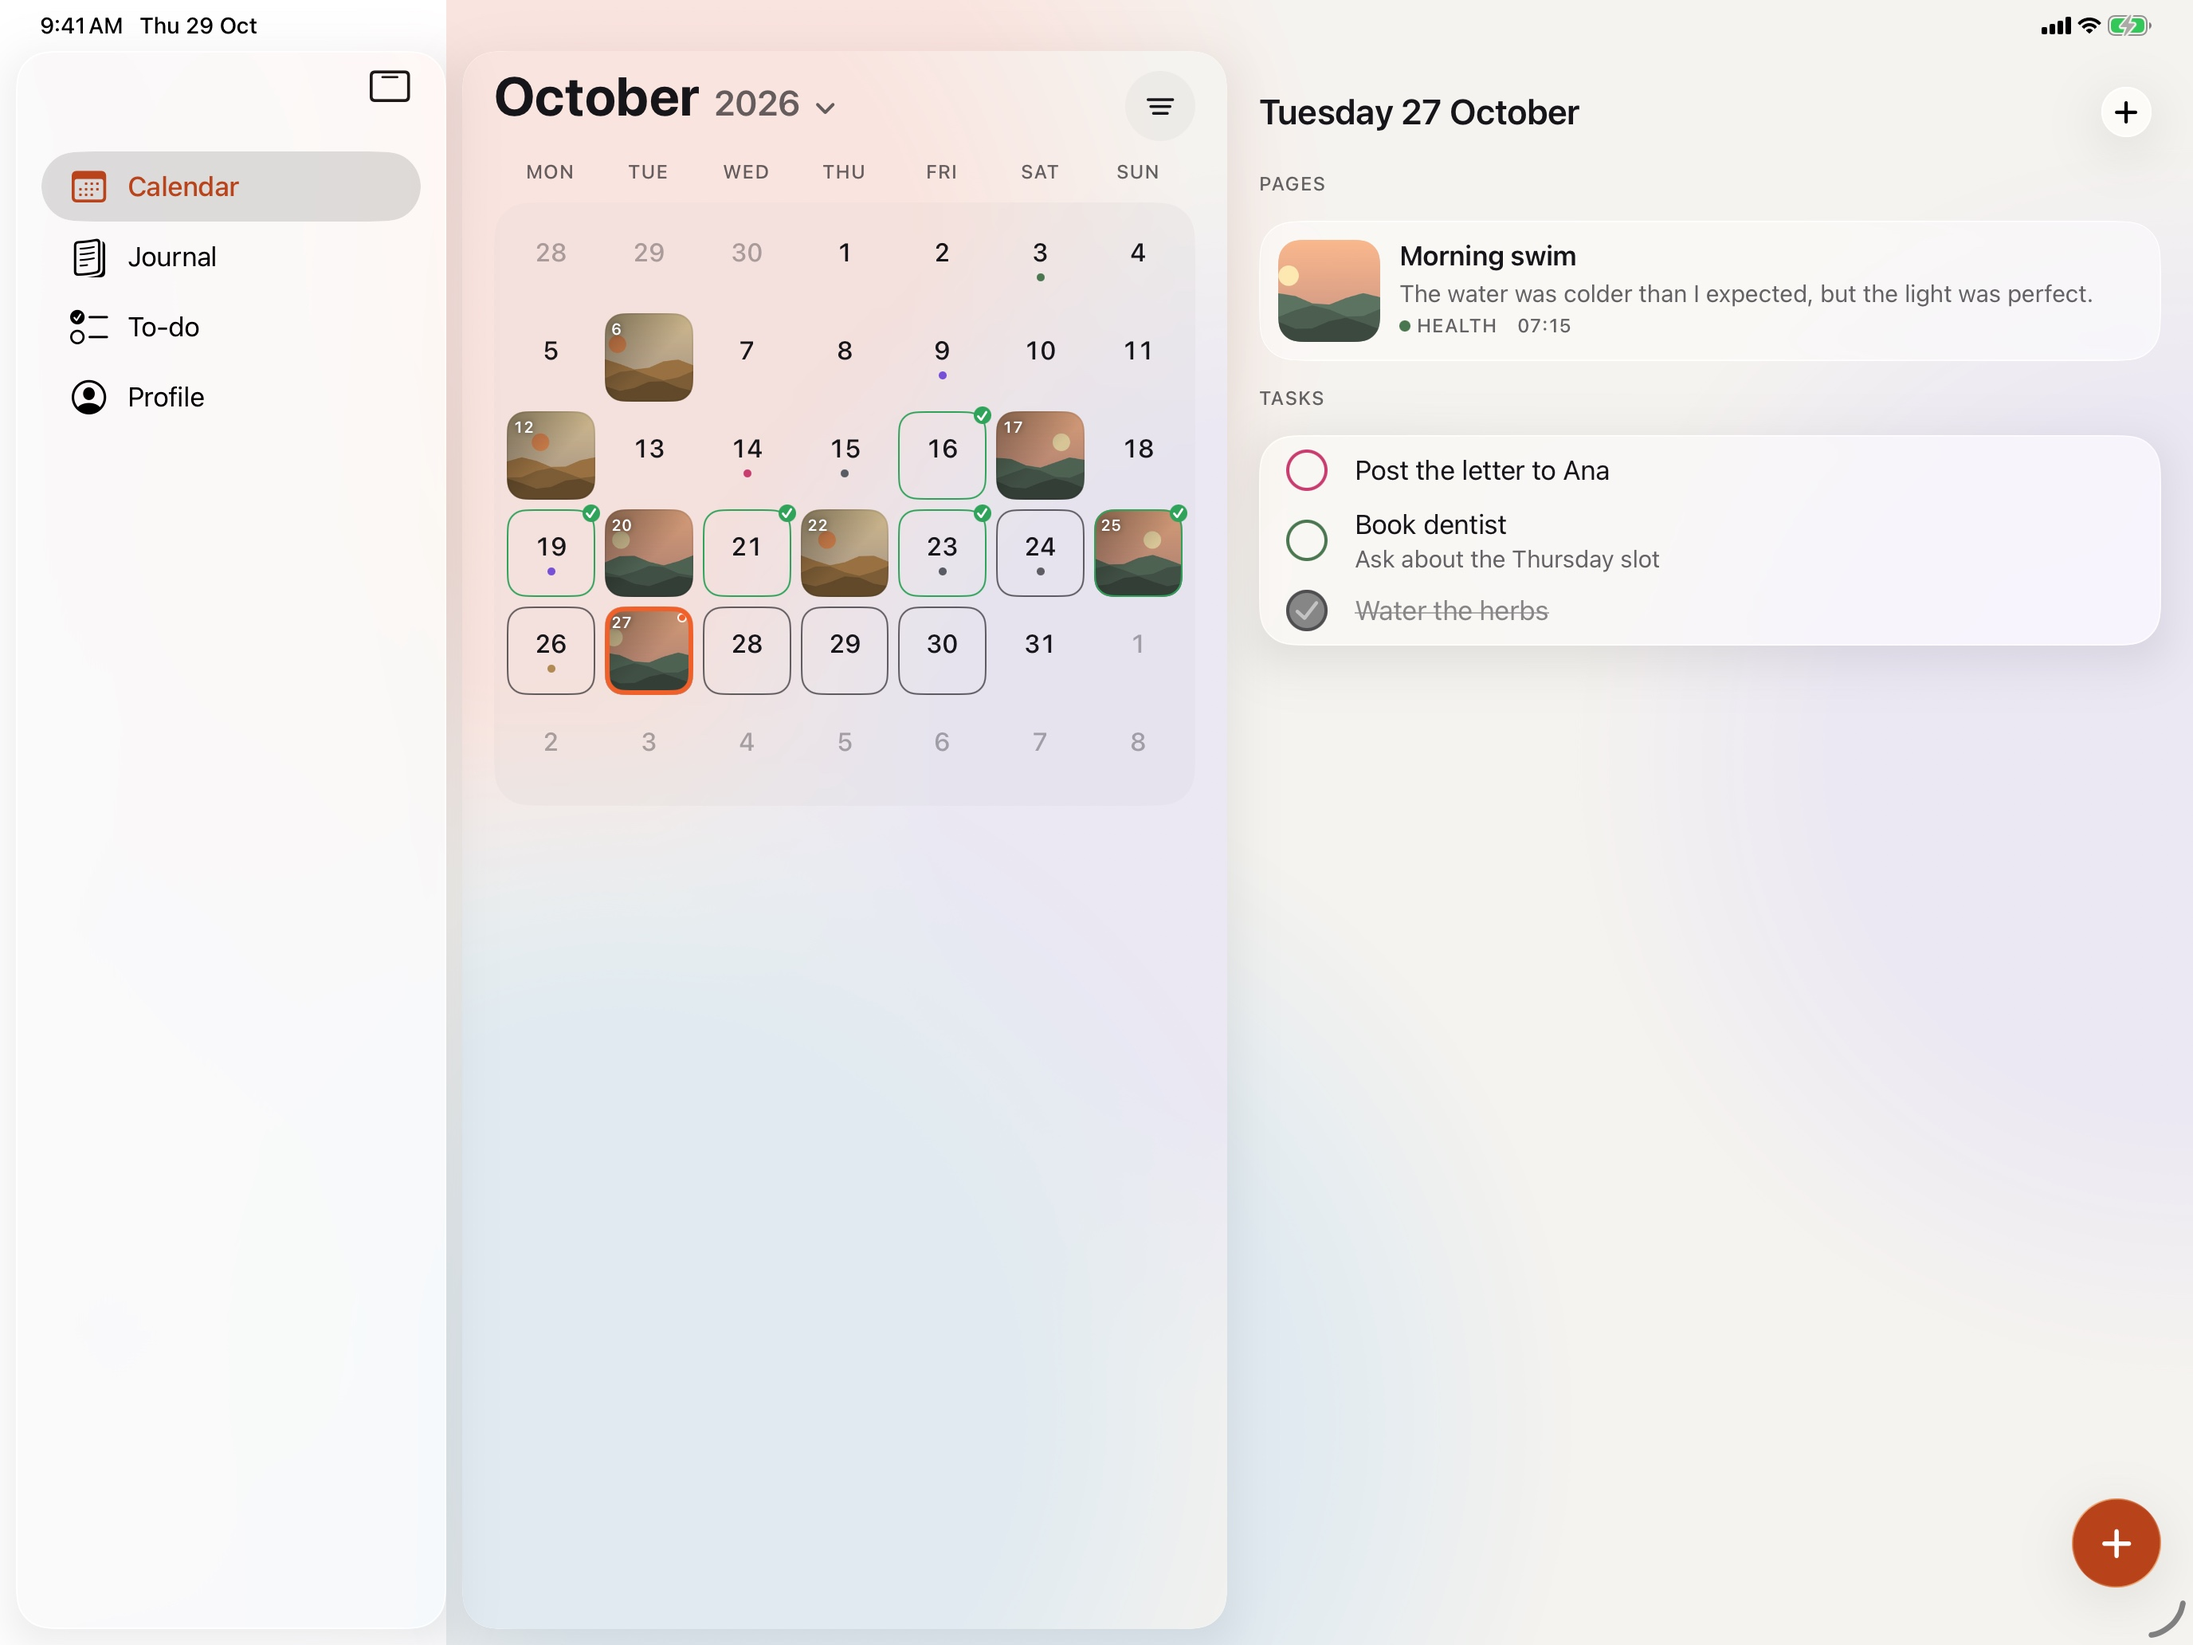
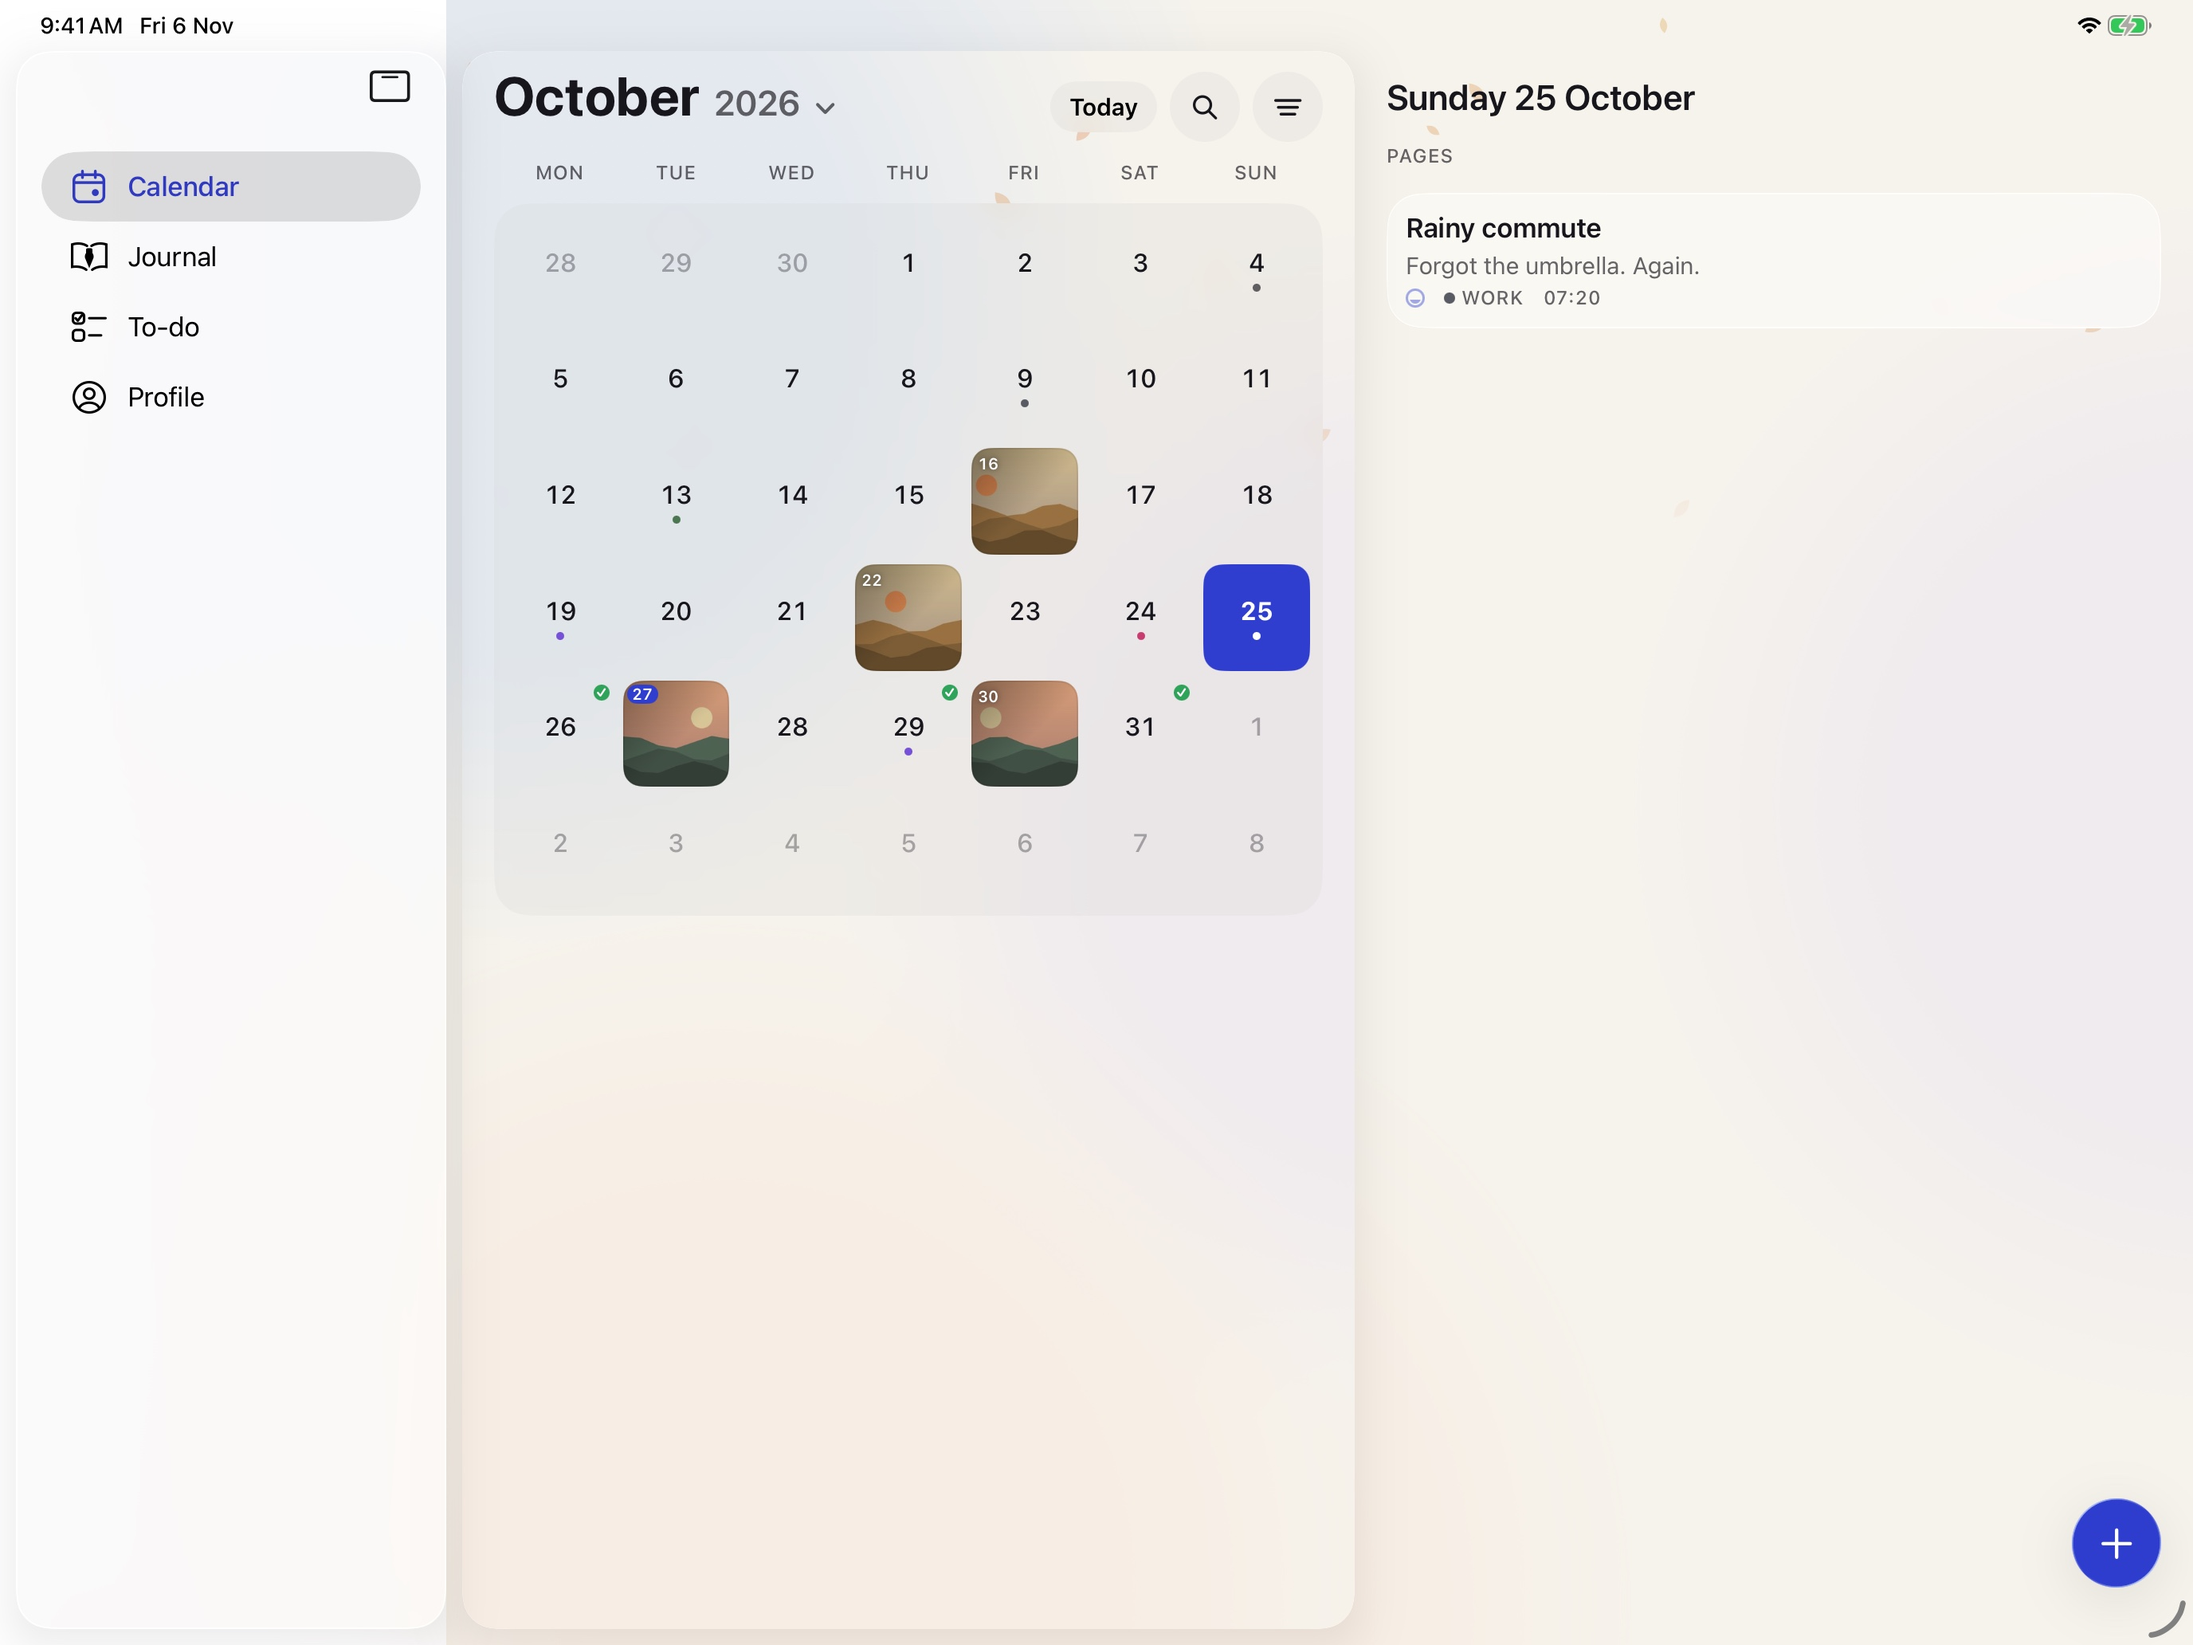
Batch L Part 4: iPad — readable centred columns (Journal, To-do, Profile, Year in Pixels), wider month column, keyboard shortcuts via Commands (focused window), pointer hover on every pressable control, Cmd-Return saves; year pager fix; iPad screenshots (13/11, portrait/landscape, light/dark), App S

diff --git a/ios/Folio/App/FolioCommands.swift b/ios/Folio/App/FolioCommands.swift
@@ -1,0 +1,43 @@
+import SwiftUI
+
+/// Hardware-keyboard shortcuts (Batch L, iPad and keyboards on iPhone): they appear in the
+/// iPadOS menu bar and the ⌘ overlay, and act on the focused window only (`focusedSceneValue`),
+/// so with two Folio windows open ⌘N opens one composer, in the window you're using.
+enum FolioCommand: Hashable {
+    case newEntry, newTask, search, today, previousMonth, nextMonth
+    case tab(AppTab)
+}
+
+/// What the focused window does with a command.
+struct FolioCommandHandler {
+    let perform: (FolioCommand) -> Void
+}
+
+extension FocusedValues {
+    @Entry var folioCommands: FolioCommandHandler?
+}
+
+struct FolioCommands: Commands {
+    @FocusedValue(\.folioCommands) private var handler
+
+    var body: some Commands {
+        CommandGroup(replacing: .newItem) {
+            Button("New Entry") { handler?.perform(.newEntry) }
+                .keyboardShortcut("n")
+            Button("New Task") { handler?.perform(.newTask) }
+                .keyboardShortcut("n", modifiers: [.command, .shift])
+        }
+        CommandMenu("Go") {
+            Button("Calendar") { handler?.perform(.tab(.calendar)) }.keyboardShortcut("1")
+            Button("Journal") { handler?.perform(.tab(.journal)) }.keyboardShortcut("2")
+            Button("To-do") { handler?.perform(.tab(.todo)) }.keyboardShortcut("3")
+            Button("Profile") { handler?.perform(.tab(.profile)) }.keyboardShortcut("4")
+            Divider()
+            Button("Today") { handler?.perform(.today) }.keyboardShortcut("t")
+            Button("Previous Month") { handler?.perform(.previousMonth) }.keyboardShortcut("[")
+            Button("Next Month") { handler?.perform(.nextMonth) }.keyboardShortcut("]")
+            Divider()
+            Button("Search") { handler?.perform(.search) }.keyboardShortcut("f")
+        }
+    }
+}

diff --git a/ios/Folio/Features/Journal/YearInPixelsView.swift b/ios/Folio/Features/Journal/YearInPixelsView.swift
@@ -6,6 +6,7 @@ struct YearInPixelsView: View {
     @Bindable var model: JournalModel
     @Environment(DiaryStore.self) private var store
     @Environment(\.accessibilityReduceMotion) private var reduceMotion
+    @State private var pagerWidth: Double = 0
     @State private var visibleYear: Int?
 
     var body: some View {
@@ -42,7 +43,15 @@ struct YearInPixelsView: View {
             }
             .scrollTargetBehavior(.paging)
             .scrollIndicators(.hidden)
+            // The Journal's readable-width margins (Batch L) are for its own column; inherited
+            // here they'd offset each page and show a slice of the neighbouring year.
+            .contentMargins(.horizontal, 0, for: .scrollContent)
             .scrollPosition(id: $visibleYear)
+            // A paging scroll view keeps its pixel offset when its width changes (HANDOFF gotcha
+            // 19): rebuild it per width so it lands on the year it shows, and nothing peeks in.
+            .onGeometryChange(for: Double.self) { $0.size.width } action: { pagerWidth = $0 }
+            .id(pagerWidth)
+            .clipped()
             .onAppear { if visibleYear == nil { visibleYear = current } }
 
             PixelLegend(byMood: model.pixelsByMood)
@@ -165,5 +174,6 @@ struct PixelLegend: View {
             }
         }
         .scrollIndicators(.hidden)
+        .contentMargins(.horizontal, 0, for: .scrollContent)
     }
 }

diff --git a/ios/Folio/Features/Shell/MainTabView.swift b/ios/Folio/Features/Shell/MainTabView.swift
@@ -84,6 +84,7 @@ struct MainTabView: View {
                 if added > 0 { toasts.show(ToastMessage(text: "Added \(added) shared to Folio", systemImage: "square.and.arrow.down")) }
             }
         }
+        .focusedSceneValue(\.folioCommands, FolioCommandHandler(perform: perform))
         .onOpenURL { url in
             guard let route = FolioRoute(url: url) else { return }
             if calendar == nil { pendingRoute = route } else { open(route) }
@@ -178,6 +179,22 @@ struct MainTabView: View {
             calendar?.path = []
             selection = .calendar
             calendar?.showsSearch = true
+        }
+    }
+
+    /// Keyboard shortcuts (Batch L): the same paths as the "+" button, tabs and the calendar header.
+    private func perform(_ command: FolioCommand) {
+        switch command {
+        case .newEntry: present(.entry(selection == .calendar ? calendar?.selectedDay ?? store.today : store.today))
+        case .newTask: open(.newTask)
+        case .search: open(.search)
+        case .today: open(.today)
+        case .previousMonth, .nextMonth:
+            selection = .calendar
+            calendar?.page(by: command == .nextMonth ? 1 : -1, reduceMotion: UIAccessibility.isReduceMotionEnabled)
+        case .tab(let tab):
+            requester.pending = nil
+            selection = tab
         }
     }
 

diff --git a/ios/Folio/Features/Todo/TodoScreen.swift b/ios/Folio/Features/Todo/TodoScreen.swift
@@ -83,6 +83,7 @@ struct TodoScreen: View {
             // The inset holds the toast and the quick-add bar, so the last row always scrolls
             // clear of both and of the tab bar; the margin adds a little air under it.
             .contentMargins(.bottom, Spacing.m, for: .scrollContent)
+            .readableWidth()
             // Scrolling or tapping the list puts the keyboard away (Batch I). Attached before the
             // bottom inset, so taps on the quick-add bar itself are never caught.
             .scrollDismissesKeyboard(.immediately)
@@ -152,6 +153,9 @@ struct TodoScreen: View {
             }
             .onGeometryChange(for: Double.self) { $0.size.height - barPadding } action: { quickAddHeight = $0 }
         }
+        // Wide windows (Batch L): the bar lines up with the list's readable column.
+        .frame(maxWidth: 800)
+        .frame(maxWidth: .infinity)
         // A negative bottom padding shrinks the inset too, so the list's last row follows the bar down.
         .padding(.bottom, -(inline?.drop ?? 0))
         .animation(FolioMotion.standard(reduceMotion: reduceMotion), value: inline)

diff --git a/ios/Folio/DesignSystem/Components/ReadableWidth.swift b/ios/Folio/DesignSystem/Components/ReadableWidth.swift
@@ -1,0 +1,20 @@
+import SwiftUI
+
+/// iPad and other wide windows (Batch L): lists and timelines keep a readable column, centred,
+/// instead of stretching rows and cover photos across a 13-inch screen. Below the limit (iPhone,
+/// narrow Split View) it changes nothing.
+struct ReadableWidth: ViewModifier {
+    var maxWidth: Double = 760
+    @State private var width: Double = 0
+
+    func body(content: Content) -> some View {
+        let extra = max(0, (width - maxWidth) / 2)
+        content
+            .contentMargins(.horizontal, extra, for: .scrollContent)
+            .onGeometryChange(for: Double.self) { $0.size.width } action: { width = $0 }
+    }
+}
+
+extension View {
+    func readableWidth(_ maxWidth: Double = 760) -> some View { modifier(ReadableWidth(maxWidth: maxWidth)) }
+}

diff --git a/ios/Folio/Features/Calendar/CalendarModel.swift b/ios/Folio/Features/Calendar/CalendarModel.swift
@@ -87,6 +87,13 @@ final class CalendarModel {
         }
     }
 
+    /// ⌘[ and ⌘] (Batch L): one month back or forward, as a swipe would.
+    func page(by months: Int, reduceMotion: Bool) {
+        let target = visibleMonth.adding(months: months)
+        ensureContains(target)
+        withAnimation(FolioMotion.standard(reduceMotion: reduceMotion)) { visibleMonthID = target.id }
+    }
+
     /// Jumps without scrolling through every month in between.
     func jump(to month: MonthKey, selecting day: DayKey? = nil) {
         ensureContains(month)

diff --git a/ios/Folio/DesignSystem/Components/PressableButtonStyle.swift b/ios/Folio/DesignSystem/Components/PressableButtonStyle.swift
@@ -9,6 +9,8 @@ struct PressableButtonStyle: ButtonStyle {
             .scaleEffect(configuration.isPressed && !reduceMotion ? 0.97 : 1)
             .opacity(configuration.isPressed && reduceMotion ? 0.7 : 1)
             .animation(FolioMotion.interactive(reduceMotion: reduceMotion), value: configuration.isPressed)
+            // iPad pointer and trackpad (Batch L): the system's highlight shaped to the control.
+            .hoverEffect(.highlight)
     }
 }
 

diff --git a/ios/Folio/Features/Calendar/CalendarSplitView.swift b/ios/Folio/Features/Calendar/CalendarSplitView.swift
@@ -14,7 +14,7 @@ struct CalendarSplitView: View {
     var body: some View {
         NavigationSplitView(columnVisibility: $columns) {
             monthColumn
-                .navigationSplitViewColumnWidth(min: 360, ideal: 480, max: 760)
+                .navigationSplitViewColumnWidth(min: 360, ideal: 560, max: 760)
                 .toolbarVisibility(.hidden, for: .navigationBar)
         } detail: {
             NavigationStack(path: $model.path) {

diff --git a/ios/Folio/Features/Todo/TaskComposerSheet.swift b/ios/Folio/Features/Todo/TaskComposerSheet.swift
@@ -100,6 +100,7 @@ struct TaskComposerSheet: View {
                     Button("Save", action: save)
                         .buttonStyle(.glassProminent)
                         .tint(.accentStrong)
+                        .keyboardShortcut(.return, modifiers: .command)
                         .disabled(title.trimmingCharacters(in: .whitespacesAndNewlines).isEmpty)
                 }
             }

diff --git a/ios/Folio/App/FolioApp.swift b/ios/Folio/App/FolioApp.swift
@@ -46,6 +46,7 @@ struct FolioApp: App {
                 .environment(calendarEvents)
                 .modelContainer(container)
         }
+        .commands { FolioCommands() }
         .backgroundTask(.appRefresh(TrashMaintenance.refreshTaskID)) { [store, account, sync] in
             await Self.backgroundRefresh(store: store, account: account, sync: sync)
         }

diff --git a/ios/Folio/Features/Profile/ProfileView.swift b/ios/Folio/Features/Profile/ProfileView.swift
@@ -129,6 +129,7 @@ struct ProfileView: View {
             .modifier(AccountPresentations(routes: accountRoutes))
             // Leave the toast room above the tab bar.
             .contentMargins(.bottom, Spacing.xxl, for: .scrollContent)
+            .readableWidth()
         }
         #if DEBUG
         .onAppear {

diff --git a/ios/Folio/Features/Journal/JournalScreen.swift b/ios/Folio/Features/Journal/JournalScreen.swift
@@ -84,6 +84,8 @@ struct JournalScreen: View {
             }
             .padding(.bottom, FloatingButtonMetrics.clearance + Spacing.l)
         }
+        // The photo wall may use more of a wide screen than the timeline and the year.
+        .readableWidth(model.mode == .photos ? 1100 : 760)
     }
 }
 
